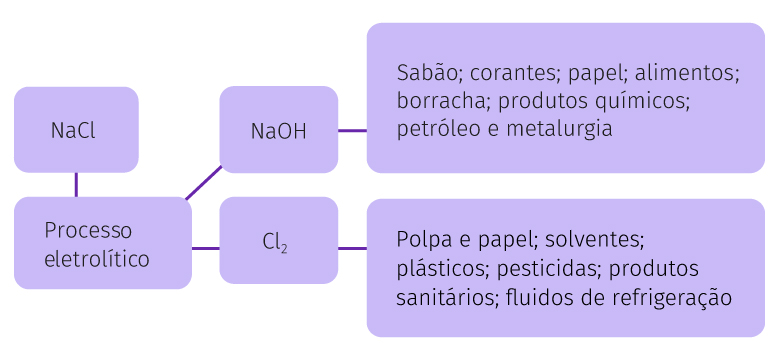
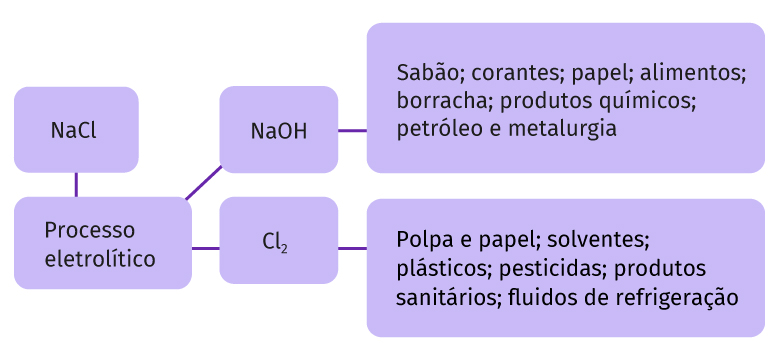
ajustes e figuras

diff --git a/scss/_personalizacao.scss b/scss/_personalizacao.scss
@@ -109,10 +109,6 @@ article {
 		
 	}
 
-	.atividade{
-		margin-top: -0.8rem;
-	}
-
 	
 	.questao{
 		font-weight: $semibold;

diff --git a/cap7.php b/cap7.php
@@ -504,7 +504,7 @@ include("components/page-header.php");
 <p>Finalmente, não poderiamos esquecer de mencionar o insumo indispensável à produção de Celulose e Papel, a água. Ela é um recurso natural de valor inestimável e é considerada um recurso estratégico para o desenvolvimento econômico do setor de Celulose e Papel e de outros setores indústriais. Além disso, ela é vital para a manutenção dos ciclos biológicos, geológicos e químicos pois está diretamente ligada ao equilíbrio dos ecossistemas. Enfim, a água é um bem social necessário para que os cidadãos tenham uma adequada qualidade de vida. A Tabela 7.7 mostra dados sobre o consumo de água por fonte em metro cúbico (m<sup>3</sup>) pelas indústrias de Celulose e Papel nos anos de 2009 e 2010 no Brasil.</p>
 
 <!-- TITULO DA TABELA 7.7 -->
-<p><span class="boldSecundario">Tabela 7.7.</span> Consumo de água (m3) pelas indústrias de Celulose de Papel no Brasil.</p>
+<p><span class="boldSecundario">Tabela 7.7.</span> Consumo de água (m<sup>3</sup>) pelas indústrias de Celulose de Papel no Brasil.</p>
 <!-- TABELA 7.7 -->
 
 <figure class="tabela">
@@ -574,7 +574,7 @@ include("components/page-header.php");
     <img src="img/fig-7-6.jpg" alt="audiodescrição">
     <figcaption><span class="bold">Figura 7.6.</span>Esquema mostrando a metodologia do processo utilizado na preparação da polpa de papel.</figcaption>
 </figure>
-<p>Existem dois métodos de descorticar as toras;</p>
+<p>Existem dois métodos de descorticar as toras:</p>
 <ul>
     <li><span class="bold"> Atrito - </span>ação de tombamento ou de rotação sobre uma massa móvel: a madeira é literalmente esfolada</li>
     <li><span class="bold"> Jato de água - </span>em alta pressão (cerca de 95,2 atm) aplicado individualmente a cada tora: a casca é partida e removida</li>
@@ -645,11 +645,11 @@ include("components/page-header.php");
 </figure>
 
 <!-- QUADRO 7.1 -->
-<p>Quadro 7.1. Celulose – um polímero formado pelas moléculas de β-glicose</p>
-<div class="box">
-    <!-- FÓRMULAS -->
-    <p>O esquema acima ilustra a formação da cadeia polimérica que caracteriza a estrutura da celulose. Como podemos ver a celulose se forma pela união de moléculas de β-glicose (uma hexosana) através de ligações β-1,4-glicosídicas. Em geral, a celulose tem massa molecular variável, com fórmula empírica \((C_6H_{10}O_5)n\), com um valor mínimo de \(n\) = 200 (tipicamente 300 a 700, podendo passar de 7000). As múltiplas ligações de hidrogênio entre os grupos hidroxilas das diferentes cadeias justapostas de glicose fazem da celulose uma estrutura linear e fibrosa. Outra característica interessante da celulose é sua impenetrabilidade em relação à água, tornando-a insolúveis nesse meio.</p>
+<p><span class = "boldSecundario">Quadro 7.1.</span> Celulose – um polímero formado pelas moléculas de β-glicose</p>
+<div class="box-centro">
+    <img text-align="center" src="img/fig-7-7.jpg" alt="audiodescrição">
 </div>
+    <p>O esquema acima ilustra a formação da cadeia polimérica que caracteriza a estrutura da celulose. Como podemos ver a celulose se forma pela união de moléculas de β-glicose (uma hexosana) através de ligações β-1,4-glicosídicas. Em geral, a celulose tem massa molecular variável, com fórmula empírica \((C_6H_{10}O_5)n\), com um valor mínimo de \(n\) = 200 (tipicamente 300 a 700, podendo passar de 7000). As múltiplas ligações de hidrogênio entre os grupos hidroxilas das diferentes cadeias justapostas de glicose fazem da celulose uma estrutura linear e fibrosa. Outra característica interessante da celulose é sua impenetrabilidade em relação à água, tornando-a insolúveis nesse meio.</p>
 <caption>Fonte: http://pt.wikipedia.org/wiki/Celulose</caption>
 
 <h2 id="7.3">7.3. Construindo e fixando o conhecimento</h2>

diff --git a/cap9.php b/cap9.php
@@ -66,9 +66,9 @@ include("components/page-header.php");
 <h3></h3>
 <p>A alquilação é definida como um processo de introdução de grupos alquil ou aril \((-R)\) por reações de substituição ou adição, em compostos orgânicos. São considerados três tipos de processos, segundo a forma de ligação que se efetua:</p>
 <div class="box">
-    <p><span class="bold">1. O-alquilação:</span> substituição de um hidrogênio em um grupo hidroxi de álcoois ou fenóis;</p>
-    <p><span class="bold">2. N-alquilação: </span>substituição de um hidrogênio ligado a um átomo de nitrogênio;</p>
-    <p><span class="bold">3. C-alquilação: </span>substituição de um hidrogênio em hidrocarbonetos.</p>
+    <p><span class="bold">O-alquilação:</span> substituição de um hidrogênio em um grupo hidroxi de álcoois ou fenóis;</p>
+    <p><span class="bold">N-alquilação: </span>substituição de um hidrogênio ligado a um átomo de nitrogênio;</p>
+    <p><span class="bold">C-alquilação: </span>substituição de um hidrogênio em hidrocarbonetos.</p>
 </div>
 <p>Dentre os processos de alquilação presentes na indústria farmacêutica, podemos destacar o da síntese do barbital. O barbital é um ácido dietilbarbitúrico da classe terapêutica dos sedativos e hipnóticos, vendido com o nome comercial de veronal. Ele é um dos mais antigos barbituratos de ação demorada, sendo sintetizado a partir do malonato de dietila pelos seguintes mecanismos de reações químicas esquematizadas na Figura 9.1.</p>
 <!-- FIGURA E FÓRMULAS 9.2 -->
@@ -128,8 +128,8 @@ include("components/page-header.php");
 <p><span class="bold">3. </span>Descreva três processos de conversão química envolvidos na produção de fármacos</p>
 
 <h2 id="9-ref">Referências Bibliográficas</h2>
-<p>SHREVE, R. N.; BRINK Jr., J. A. Indústrias de Processos Químicos, 4a Edição, Ed. Guanabara Koogan S.S., Rio de Janeiro, 1997, 717p.</p>
-<p>WONGTSCHOWSKI, P. Indústria Química Riscos e Oportunidades, 2a edição, Ed. Edgard Blücher LTDA., São Paulo, 2002, 306p.</p>
-<p>LACHMAN, L.; KANIG, J. L.; LIEBERMAN, H. H. Teoria e prática na indústria farmacêutica, 2a edição, Fundação Calouste Gulbenkian, Lisboa, vols. 1 e 2, 2010, 500p.</p>
+<p>SHREVE, R. N.; BRINK Jr., J. A. <strong>Indústrias de Processos Químicos.</strong> 4a Edição, Ed. Guanabara Koogan S.S., Rio de Janeiro, 1997, 717p.</p>
+<p>WONGTSCHOWSKI, P. <strong>Indústria Química Riscos e Oportunidades.</strong> 2a edição, Ed. Edgard Blücher LTDA., São Paulo, 2002, 306p.</p>
+<p>LACHMAN, L.; KANIG, J. L.; LIEBERMAN, H. H. <strong>Teoria e prática na indústria farmacêutica.</strong> 2a edição, Fundação Calouste Gulbenkian, Lisboa, vols. 1 e 2, 2010, 500p.</p>
 
 <?php include('components/page-footer.php'); ?>

diff --git a/cap2.php b/cap2.php
@@ -69,7 +69,7 @@ include("components/page-header.php");
 
 <!-- FIGURA 2.3 -->
 <figure>
-  <img src="img/fig-2-3.png" alt="audiodescrição">
+  <img src="img/fig-2-3.jpg" alt="audiodescrição">
   <figcaption><span class="bold">Figura 2.3. </span>Fluxograma do processo de produção de cloro e hidróxido de sódio mediante a eletrólise da solução de cloreto de sódio \((NaCl)\).</figcaption>
 </figure>
 
